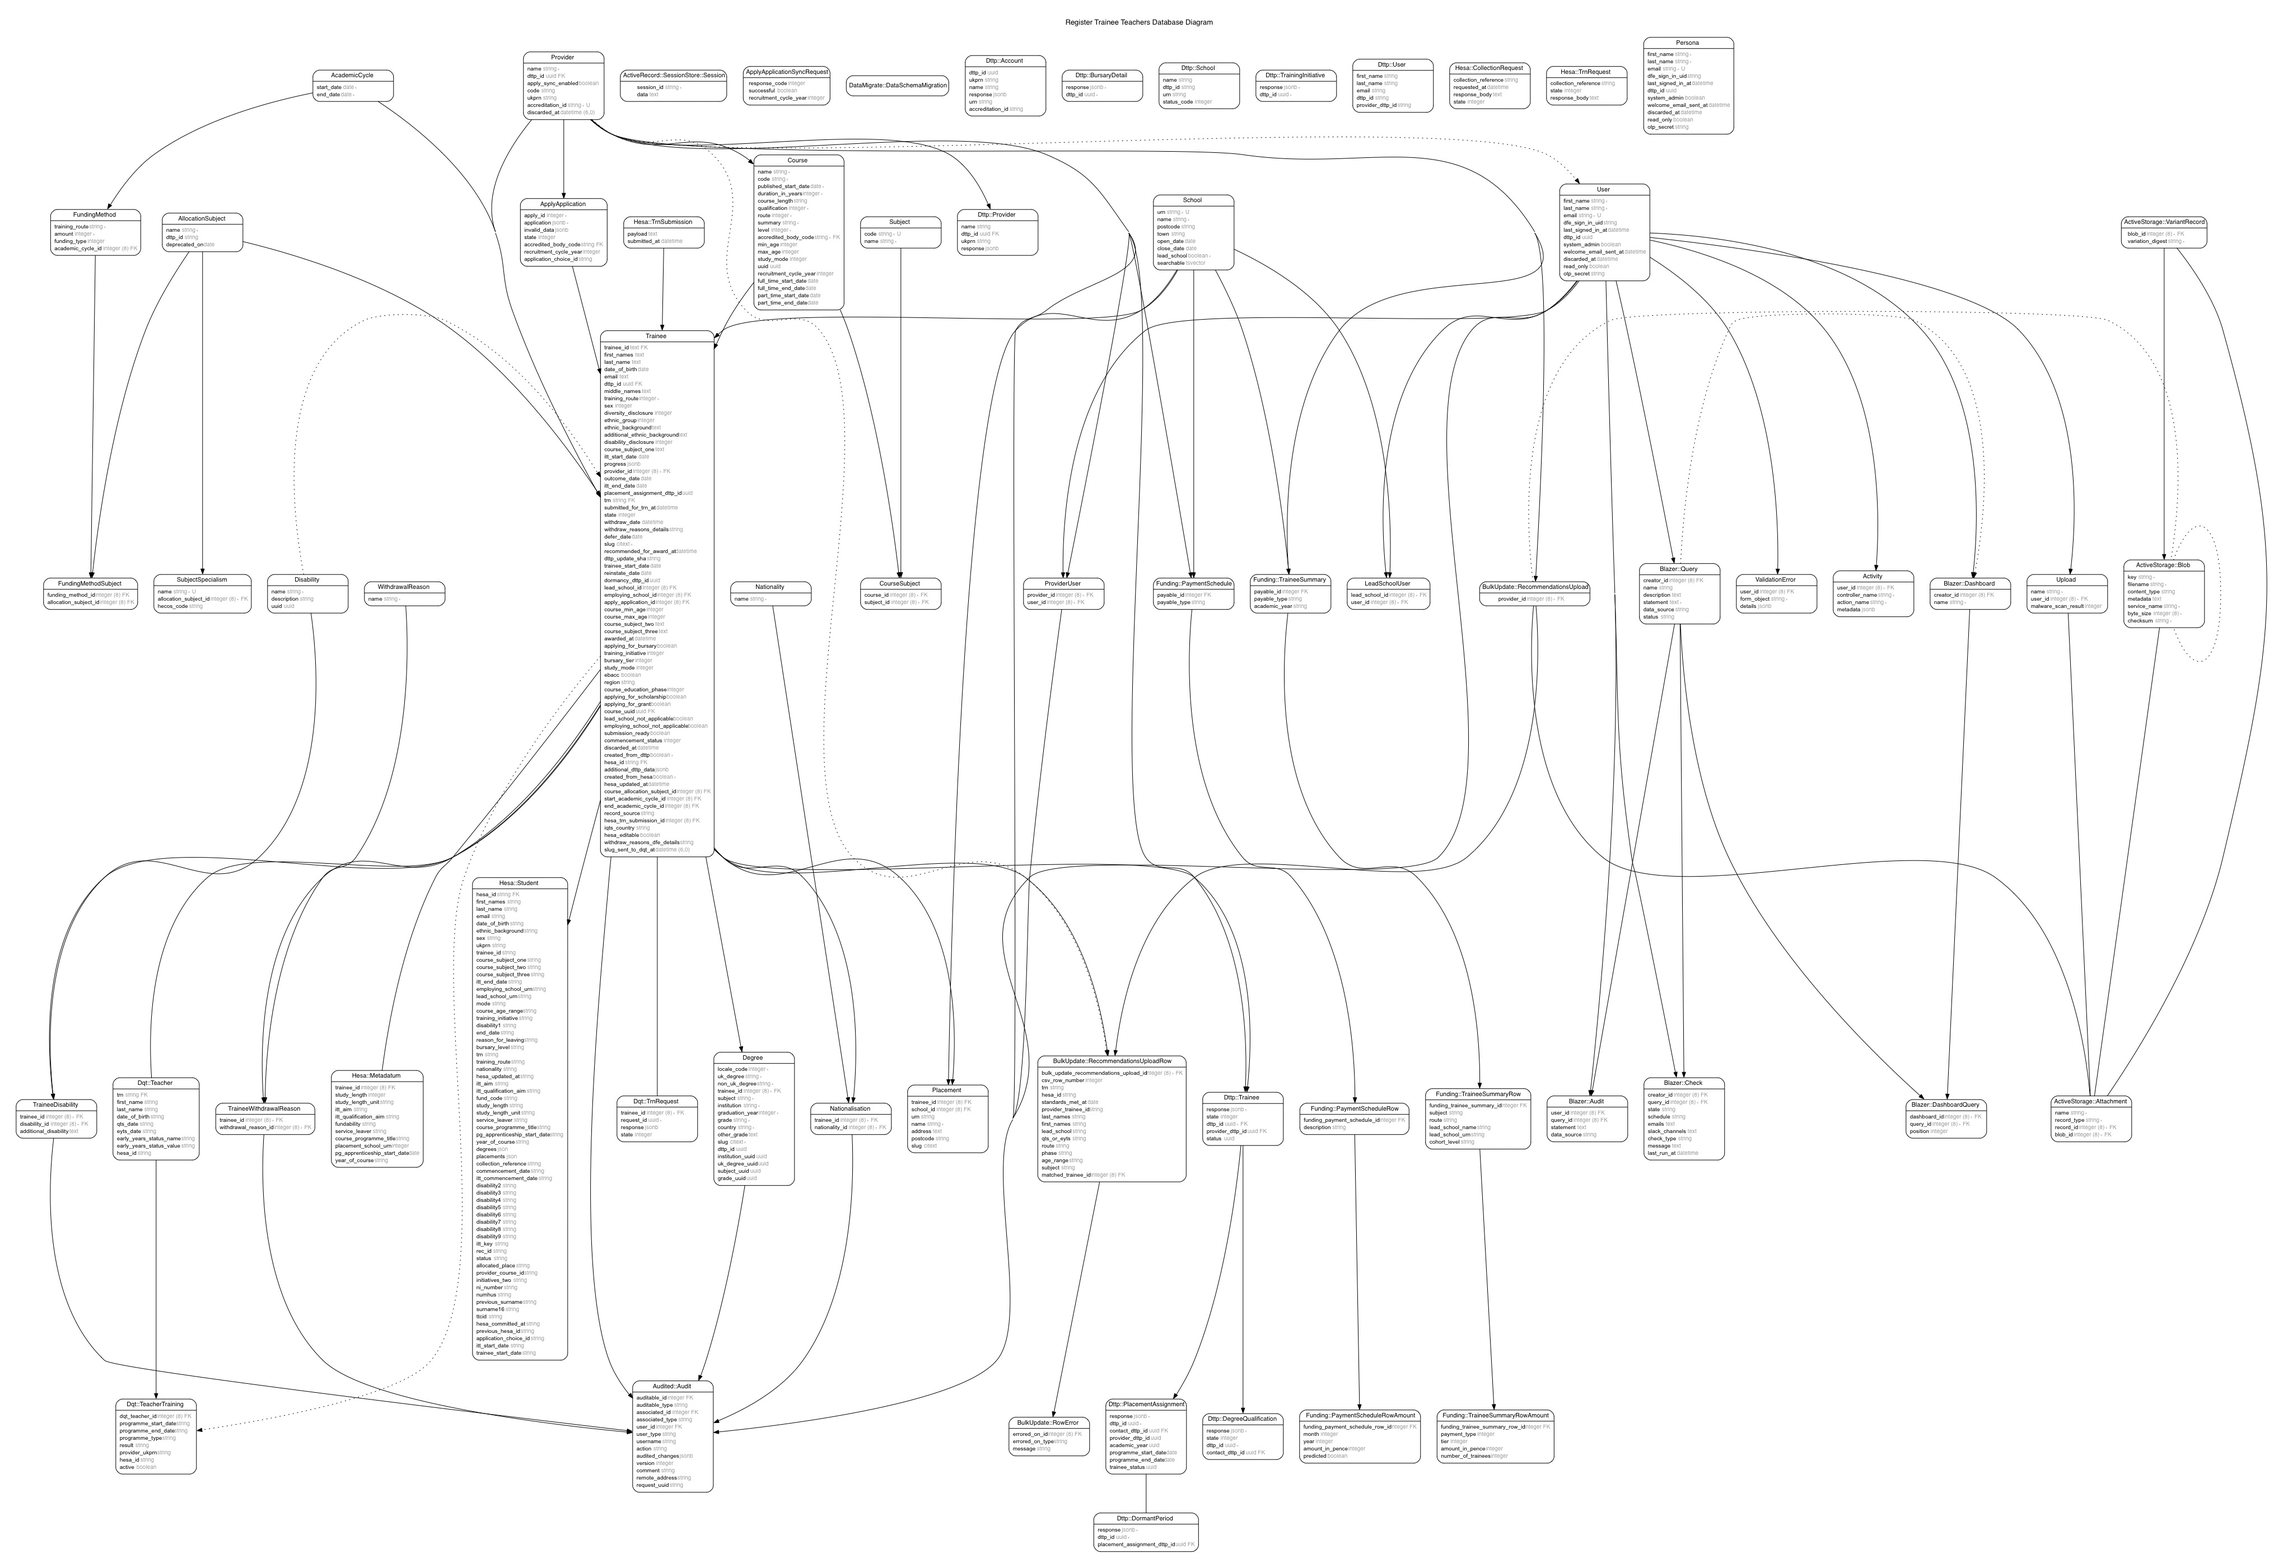
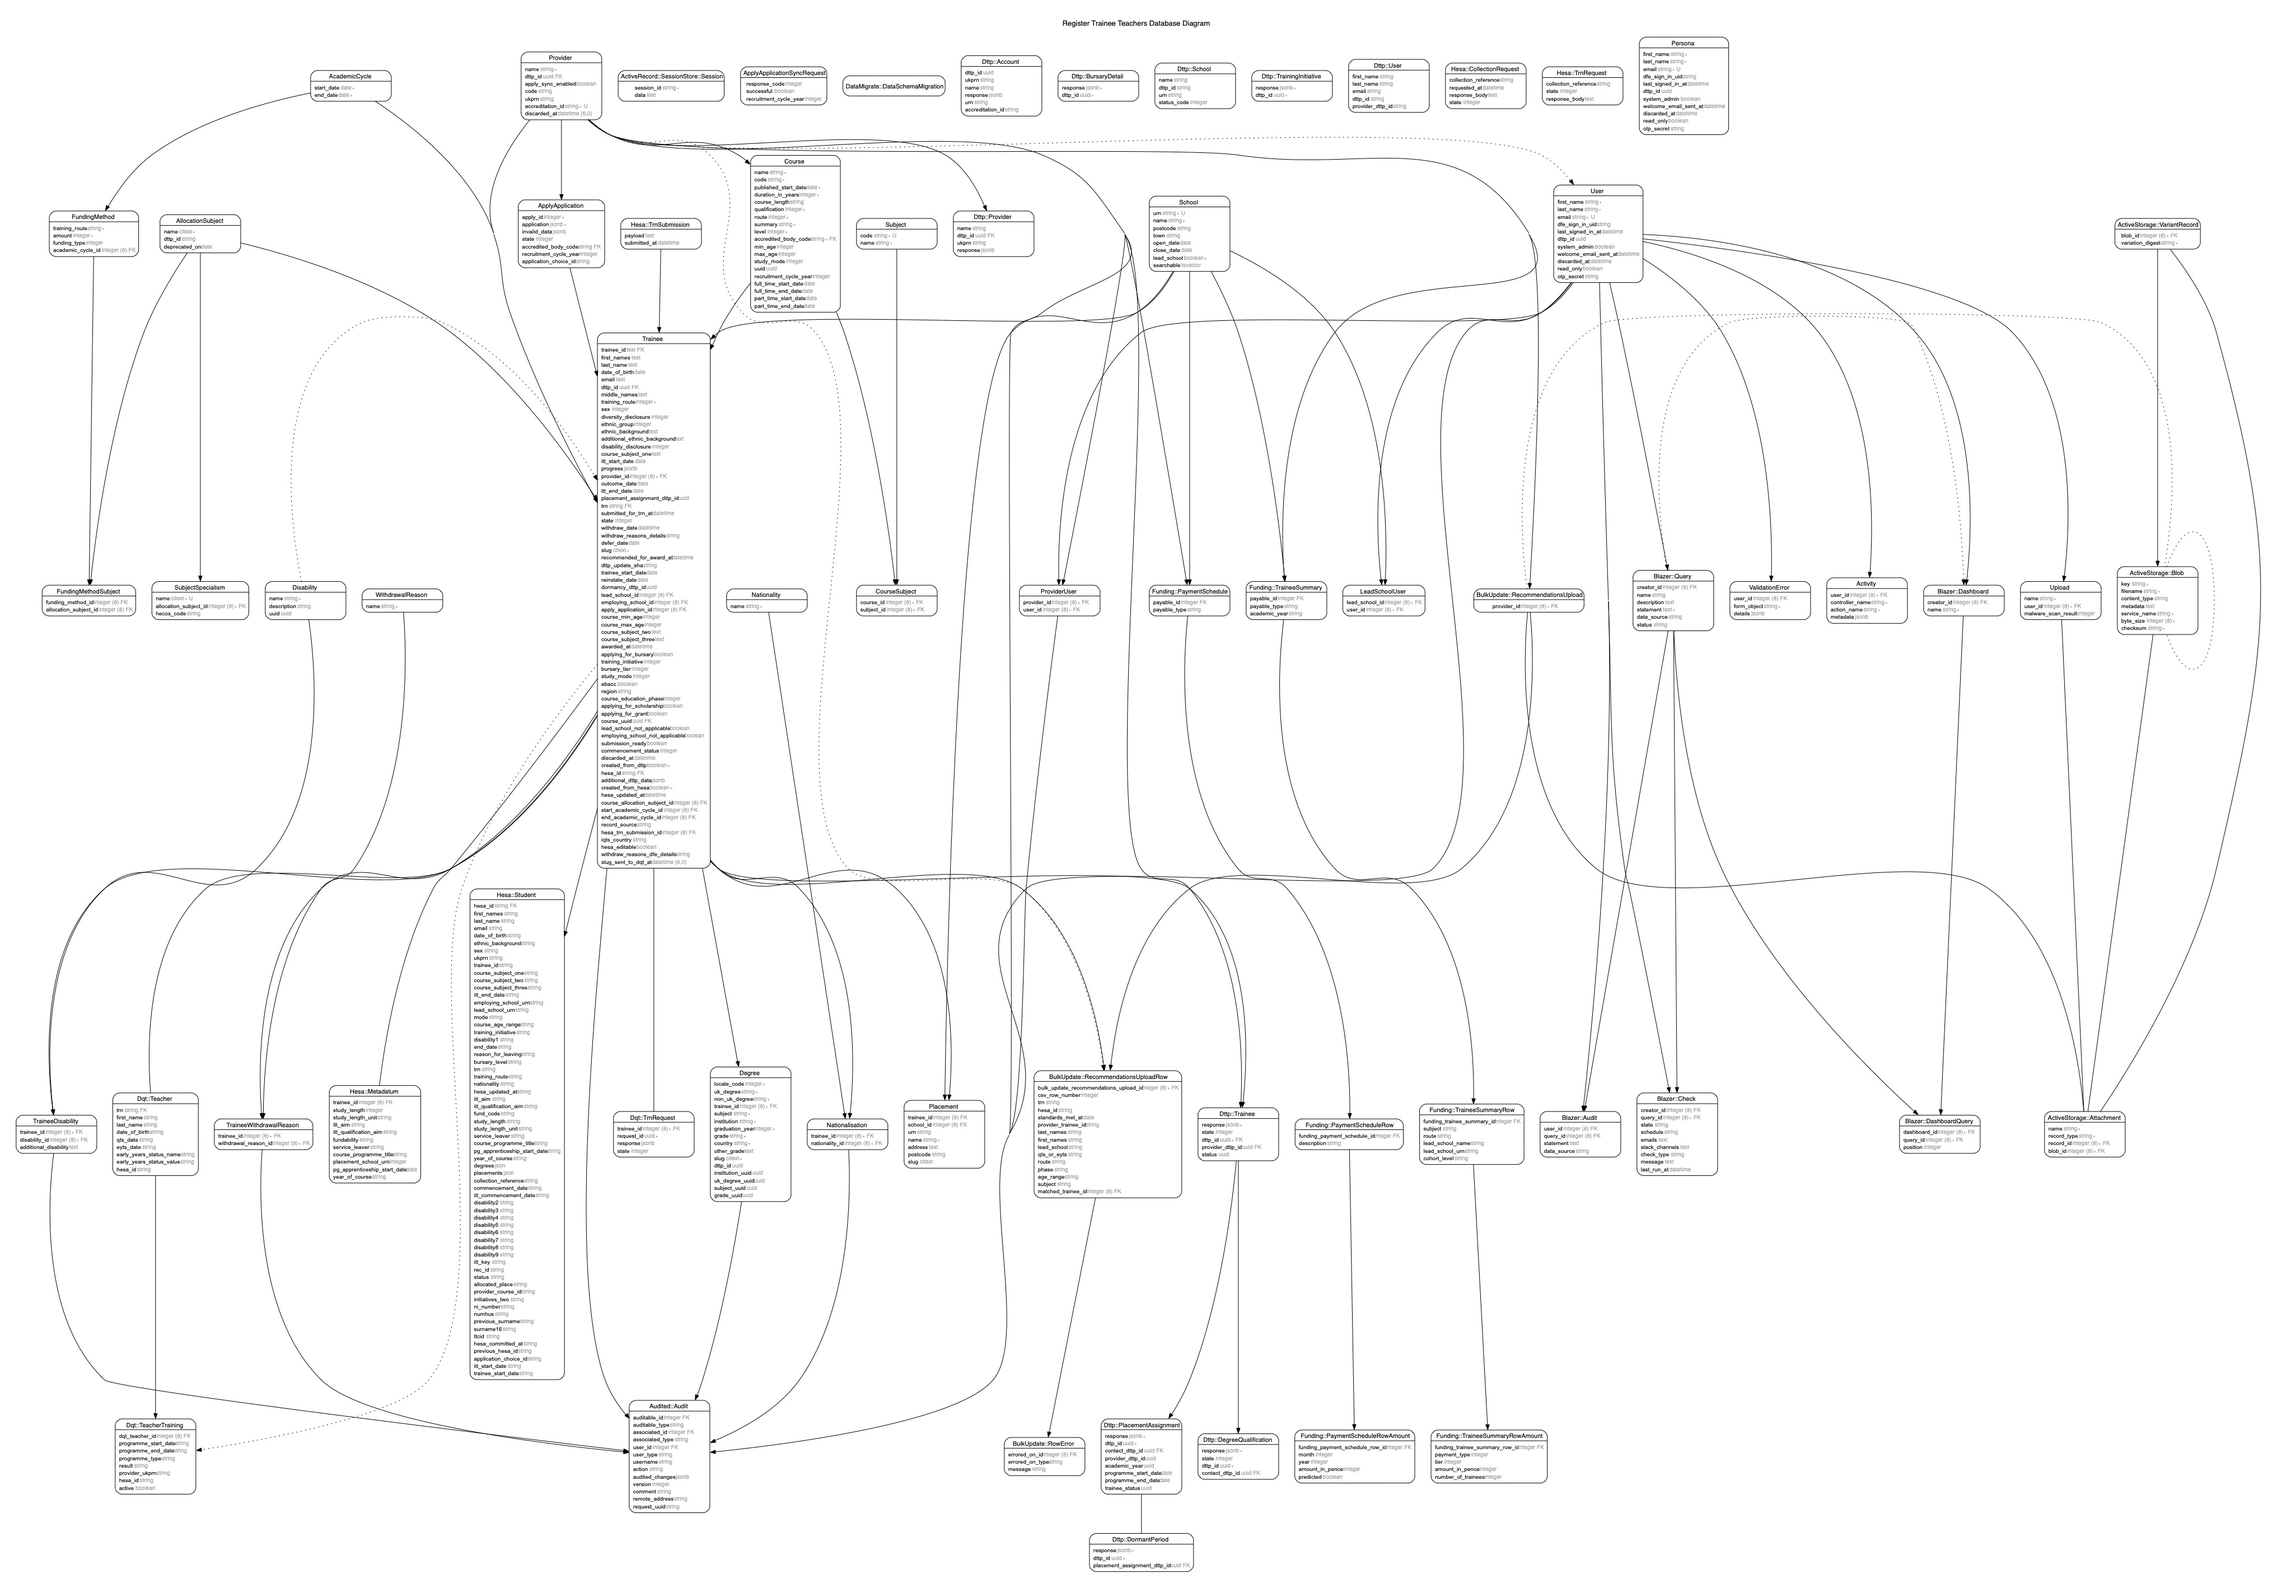
[6274] investigate hecos codes in register vs hecos codes used by hesa (#3708)

diff --git a/db/schema.rb b/db/schema.rb
@@ -10,7 +10,7 @@
 #
 # It's strongly recommended that you check this file into your version control system.
 
-ActiveRecord::Schema[7.0].define(version: 2023_10_27_124052) do
+ActiveRecord::Schema[7.0].define(version: 2023_10_30_174031) do
   # These are extensions that must be enabled in order to support this database
   enable_extension "btree_gist"
   enable_extension "citext"
@@ -65,7 +65,7 @@ ActiveRecord::Schema[7.0].define(version: 2023_10_27_124052) do
   end
 
   create_table "allocation_subjects", force: :cascade do |t|
-    t.string "name", null: false
+    t.citext "name", null: false
     t.datetime "created_at", null: false
     t.datetime "updated_at", null: false
     t.string "dttp_id"
@@ -715,13 +715,13 @@ ActiveRecord::Schema[7.0].define(version: 2023_10_27_124052) do
   end
 
   create_table "subject_specialisms", force: :cascade do |t|
-    t.string "name", null: false
+    t.citext "name", null: false
     t.bigint "allocation_subject_id", null: false
     t.datetime "created_at", null: false
     t.datetime "updated_at", null: false
     t.string "hecos_code"
-    t.index "lower((name)::text)", name: "index_subject_specialisms_on_lower_name", unique: true
     t.index ["allocation_subject_id"], name: "index_subject_specialisms_on_allocation_subject_id"
+    t.index ["name"], name: "index_subject_specialisms_on_name", unique: true
   end
 
   create_table "subjects", force: :cascade do |t|

diff --git a/config/initializers/subjects/course_subjects.rb b/config/initializers/subjects/course_subjects.rb
@@ -34,7 +34,7 @@ unless defined?(CourseSubjects)
     FOOD_AND_BEVERAGE_STUDIES = "food and beverage studies"
     FRENCH_LANGUAGE = "French language"
     GENERAL_OR_INTEGRATED_ENGINEERING = "general or integrated engineering"
-    GENERAL_SCIENCES = "general sciences"
+    GENERAL_SCIENCES = "general science"
     GEOGRAPHY = "geography"
     GERMAN_LANGUAGE = "German language"
     GRAPHIC_DESIGN = "graphic design"
@@ -77,9 +77,9 @@ unless defined?(CourseSubjects)
     STATISTICS = "statistics"
     TEXTILES_TECHNOLOGY = "textiles technology"
     TRAVEL_AND_TOURISM = "travel and tourism"
-    UK_GOVERNMENT_PARLIAMENTARY_STUDIES = "UK government / Parliamentary studies"
+    UK_GOVERNMENT_PARLIAMENTARY_STUDIES = "UK government/parliamentary studies"
     WELSH_LANGUAGE = "Welsh language"
-    TEACHING_ENGLISH_AS_A_FOREIGN_LANGUAGE = "Teaching English As A Foreign Language"
+    TEACHING_ENGLISH_AS_A_FOREIGN_LANGUAGE = "teaching English as a foreign language"
 
     MAPPING = {
       ANCIENT_HEBREW => ::DegreeSubjects::ANCIENT_HEBREW_LANGUAGE,

diff --git a/db/data/20231030183156_fix_hecos_codes.rb b/db/data/20231030183156_fix_hecos_codes.rb
@@ -1,0 +1,30 @@
+# frozen_string_literal: true
+
+class FixHecosCodes < ActiveRecord::Migration[7.0]
+  def up
+    [
+      ["general sciences", "general science", "100390"],
+      ["ancient Hebrew", "ancient Hebrew language", "101117"],
+      ["classical Greek studies", nil, "101126"],
+      ["Latin language", nil, "101420"],
+      ["UK government / Parliamentary studies", "UK government/parliamentary studies", "100610"],
+    ].each do |name, new_name, hecos_code|
+      sp = SubjectSpecialism.find_by(name:)
+      next unless sp
+
+      name = new_name if new_name
+
+      sp.update(name:, hecos_code:)
+    end
+
+    SubjectSpecialism.find_or_create_by(
+      name: "teaching English as a foreign language",
+      hecos_code: "100513",
+      allocation_subject_id: AllocationSubject.find_by(name: "English").id,
+    )
+  end
+
+  def down
+    raise ActiveRecord::IrreversibleMigration
+  end
+end

diff --git a/db/migrate/20231030174031_use_citext_for_subjects.rb b/db/migrate/20231030174031_use_citext_for_subjects.rb
@@ -1,0 +1,23 @@
+# frozen_string_literal: true
+
+class UseCitextForSubjects < ActiveRecord::Migration[7.0]
+  disable_ddl_transaction!
+
+  def up
+    safety_assured do
+      # allocation_subjects
+      remove_index :allocation_subjects, name: "index_allocation_subjects_on_name", algorithm: :concurrently
+      change_column :allocation_subjects, :name, :citext
+      add_index :allocation_subjects, :name, unique: true, algorithm: :concurrently
+
+      # subject_specialisms
+      remove_index :subject_specialisms, name: "index_subject_specialisms_on_lower_name", algorithm: :concurrently
+      change_column :subject_specialisms, :name, :citext
+      add_index :subject_specialisms, :name, unique: true, algorithm: :concurrently
+    end
+  end
+
+  def down
+    raise ActiveRecord::IrreversibleMigration
+  end
+end

diff --git a/app/models/subject_specialism.rb b/app/models/subject_specialism.rb
@@ -6,7 +6,7 @@
 #
 #  id                    :bigint           not null, primary key
 #  hecos_code            :string
-#  name                  :string           not null
+#  name                  :citext           not null
 #  created_at            :datetime         not null
 #  updated_at            :datetime         not null
 #  allocation_subject_id :bigint           not null
@@ -14,7 +14,7 @@
 # Indexes
 #
 #  index_subject_specialisms_on_allocation_subject_id  (allocation_subject_id)
-#  index_subject_specialisms_on_lower_name             (lower((name)::text)) UNIQUE
+#  index_subject_specialisms_on_name                   (name) UNIQUE
 #
 # Foreign Keys
 #

diff --git a/config/initializers/mappings/allocation_subject_to_specialism_mapping.rb b/config/initializers/mappings/allocation_subject_to_specialism_mapping.rb
@@ -60,6 +60,7 @@ ALLOCATION_SUBJECT_SPECIALISM_MAPPING = {
   AllocationSubjects::ENGLISH => [
     CourseSubjects::ENGLISH_STUDIES,
     CourseSubjects::ENGLISH_AS_SECOND_LANGUAGE,
+    CourseSubjects::TEACHING_ENGLISH_AS_A_FOREIGN_LANGUAGE,
   ],
   AllocationSubjects::GEOGRAPHY => [
     CourseSubjects::GEOGRAPHY,

diff --git a/app/models/allocation_subject.rb b/app/models/allocation_subject.rb
@@ -6,7 +6,7 @@
 #
 #  id            :bigint           not null, primary key
 #  deprecated_on :date
-#  name          :string           not null
+#  name          :citext           not null
 #  created_at    :datetime         not null
 #  updated_at    :datetime         not null
 #  dttp_id       :string

diff --git a/db/seeds.rb b/db/seeds.rb
@@ -51,7 +51,7 @@ SubjectSpecialism.upsert_all(
       }
     end
   end,
-  unique_by: :index_subject_specialisms_on_lower_name,
+  unique_by: :name,
 )
 
 ACADEMIC_CYCLES.each do |academic_cycle|
